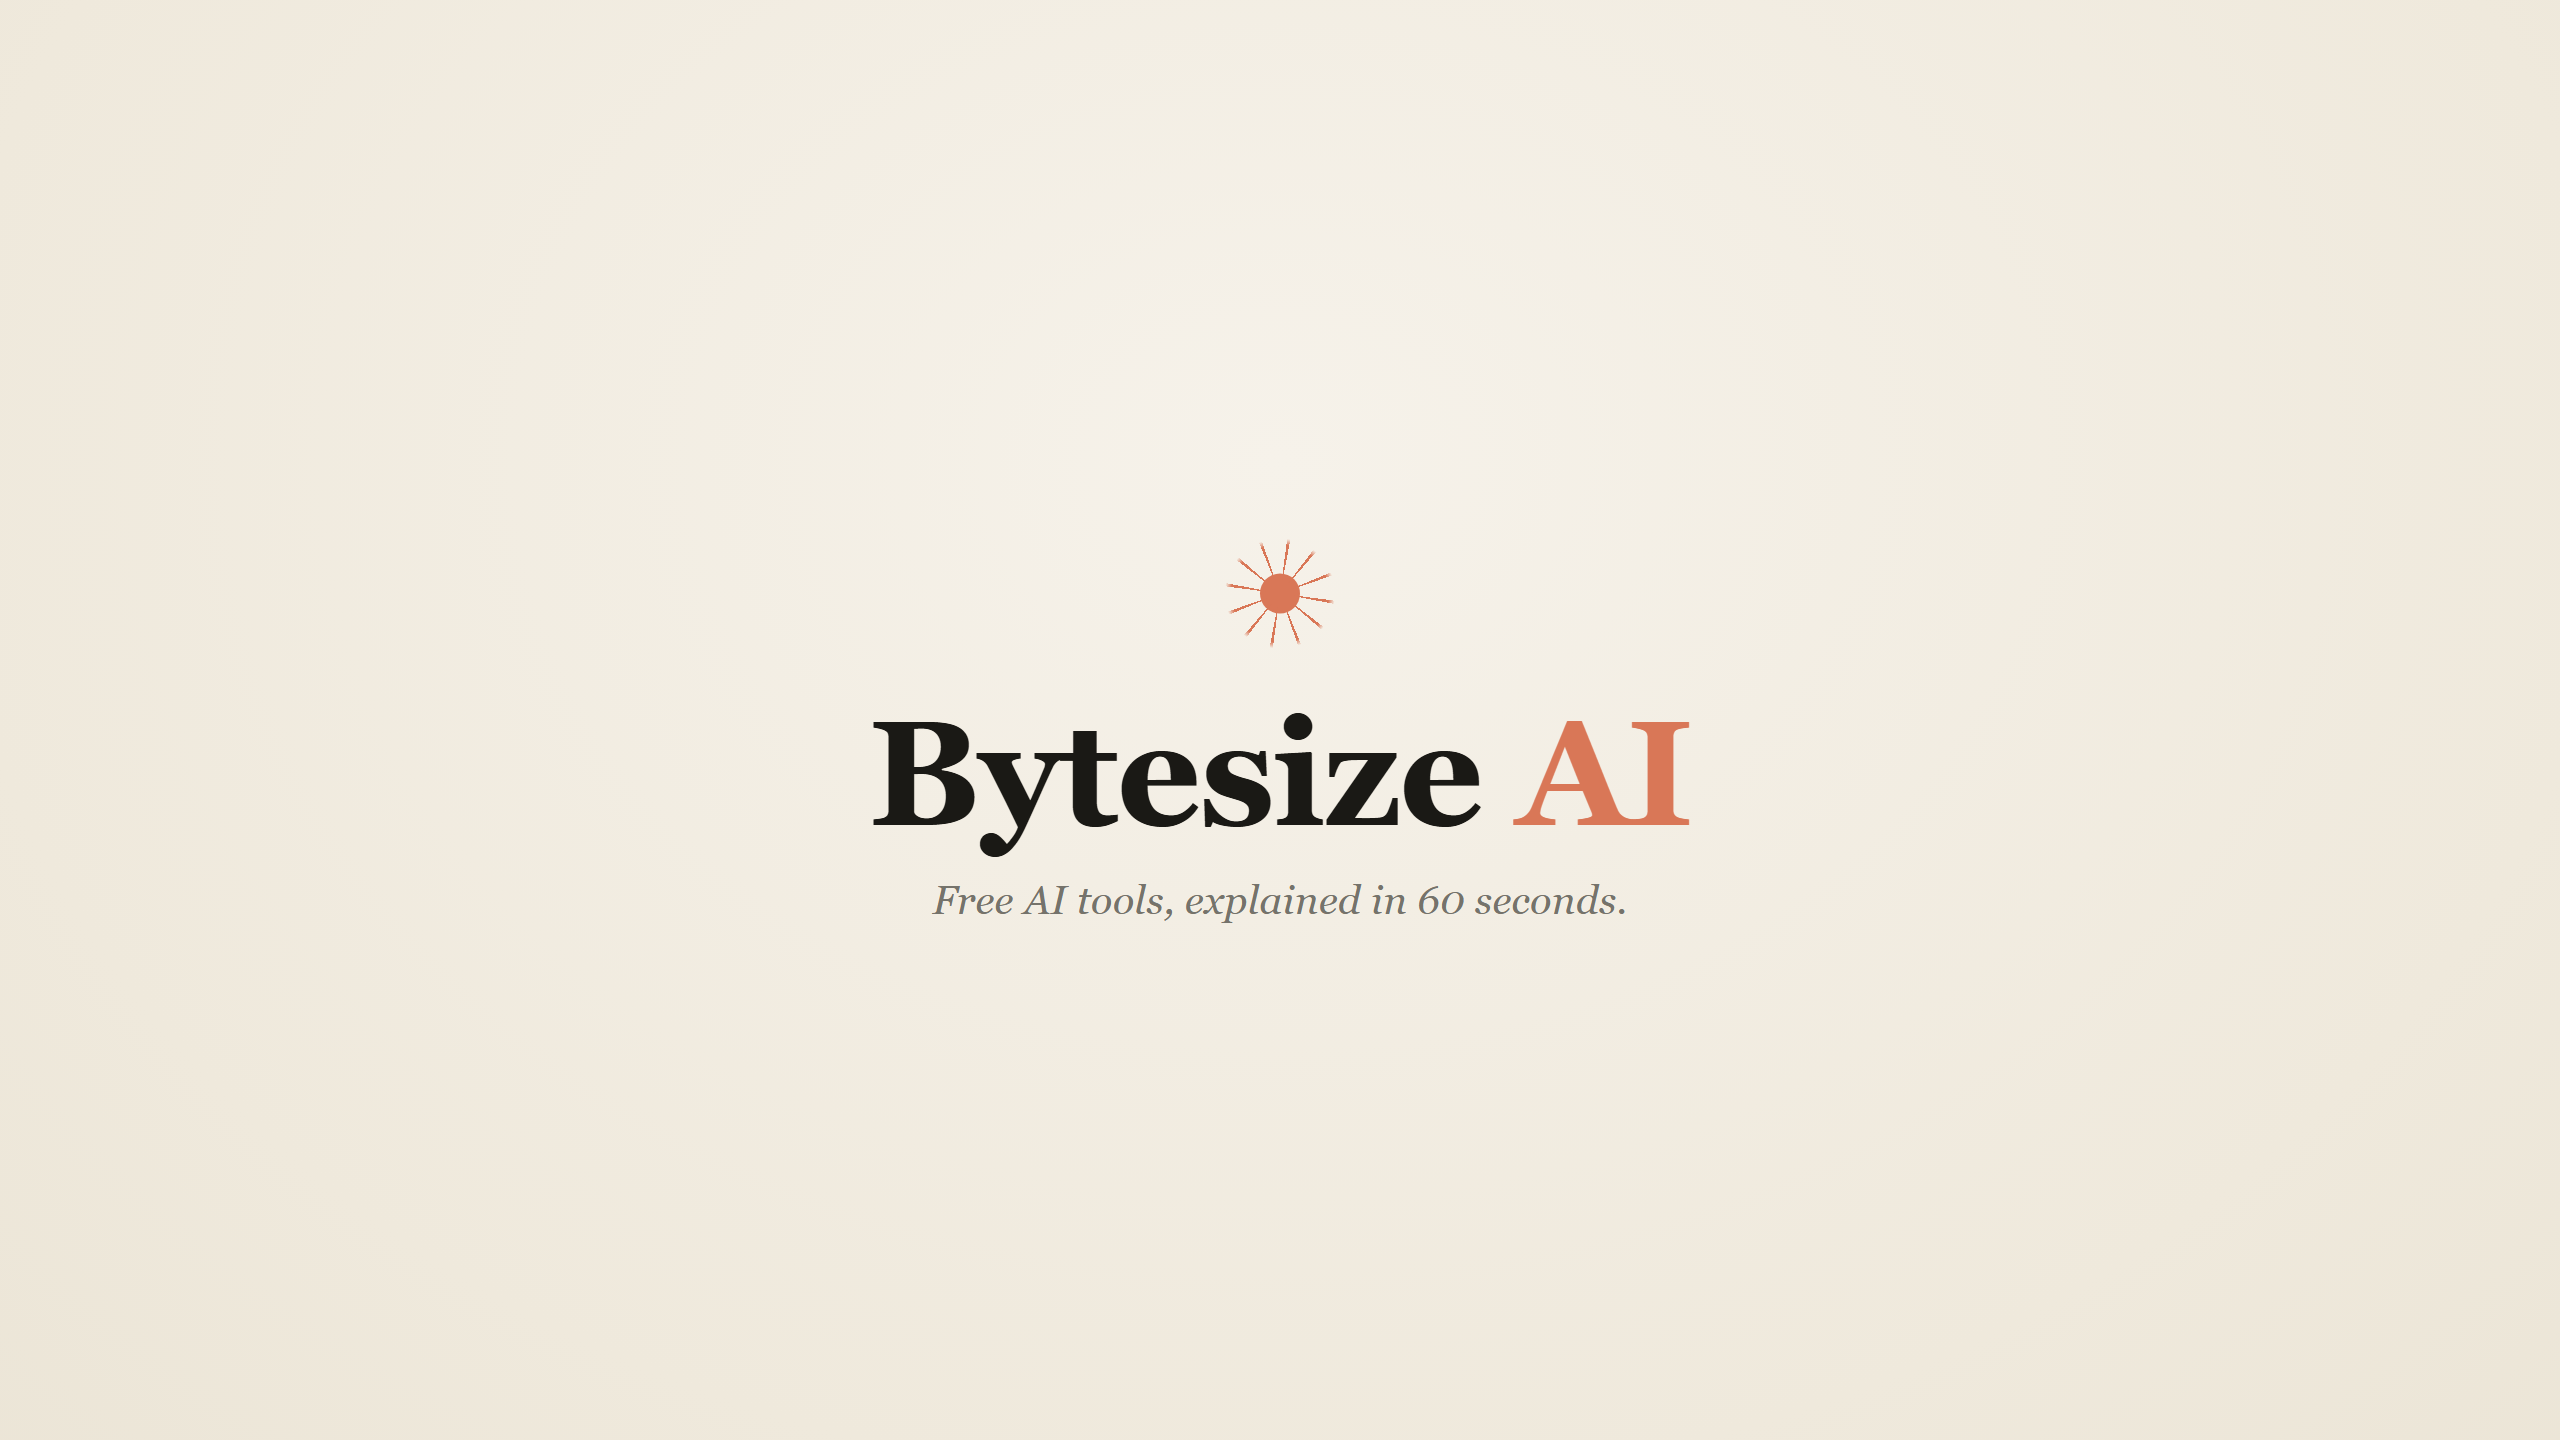
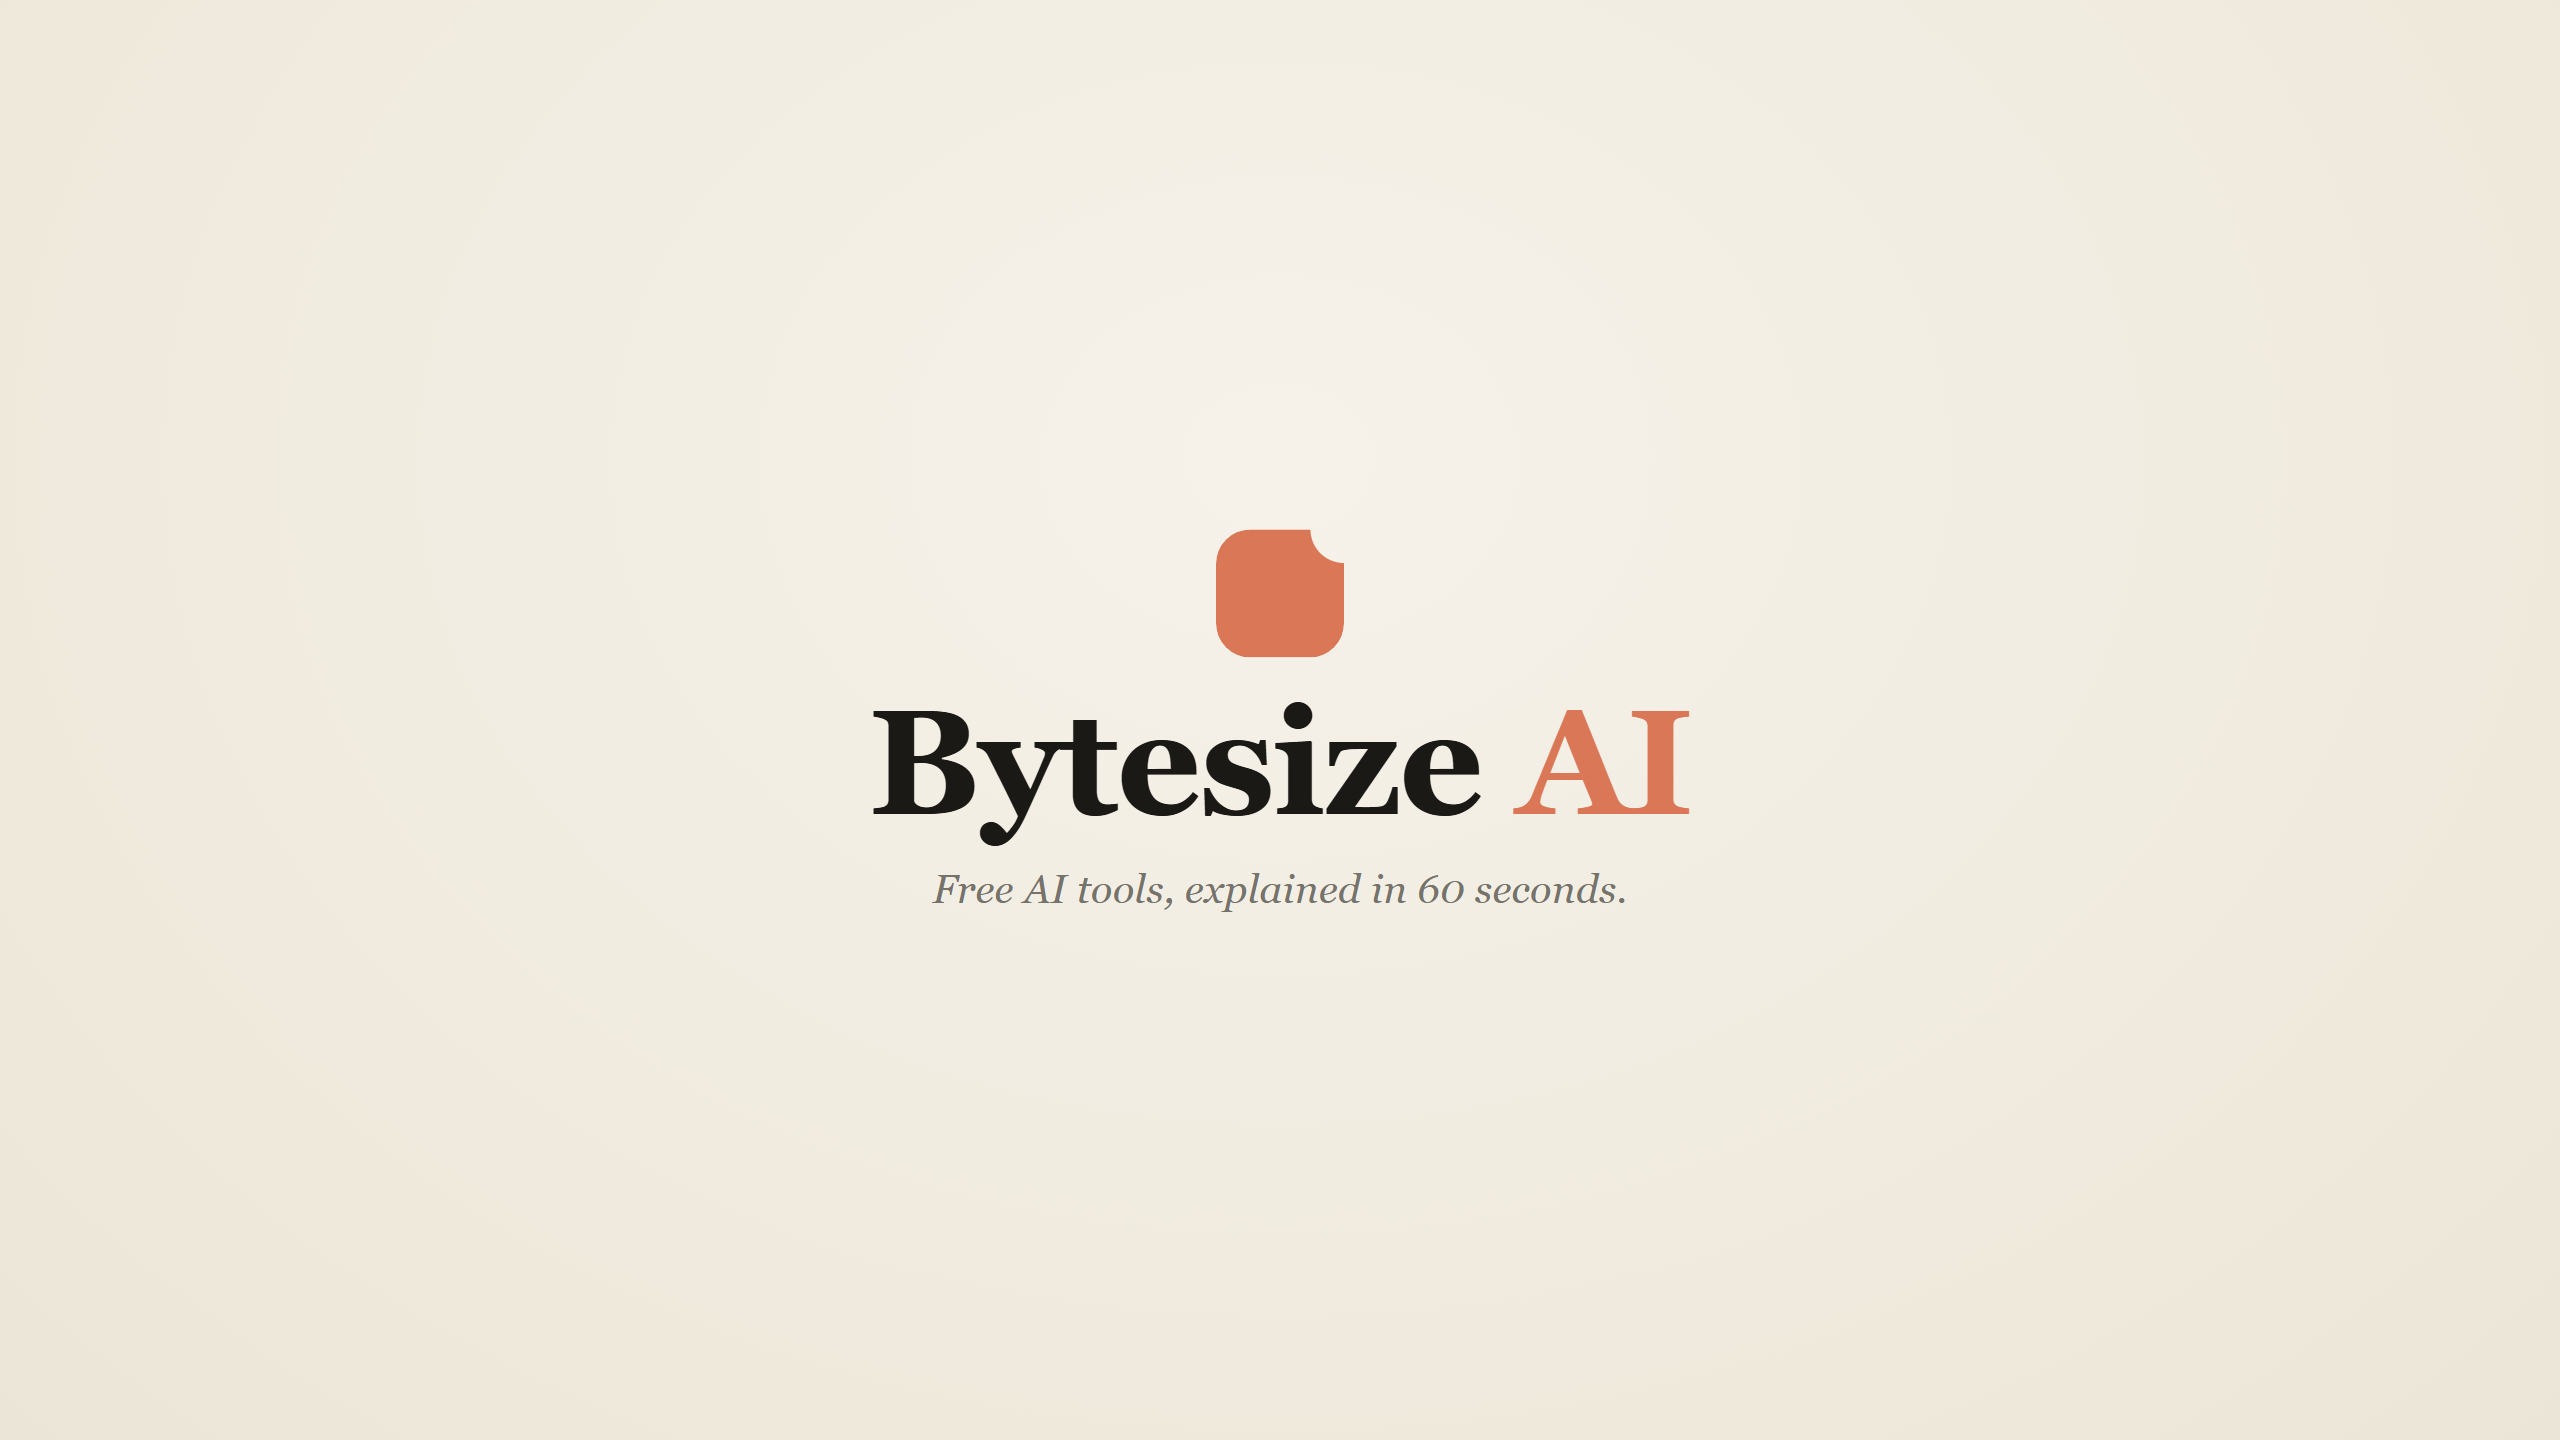
Brand: original byte/bite mark (drop Claude-like sunburst)

Changed region(s): [[0.3438, 0.4688, 0.6562, 0.6562], [0.4688, 0.3438, 0.5312, 0.4688], [0.625, 0.4688, 0.6562, 0.5]]

diff --git a/brand/logo.html b/brand/logo.html
@@ -2,18 +2,22 @@
 <html><head><meta charset="UTF-8"><style>
   *{margin:0;padding:0;box-sizing:border-box}
   html,body{width:1024px;height:1024px;overflow:hidden}
-  body{background:#D97757;display:grid;place-items:center}
-  .wrap{position:relative;width:760px;height:760px;display:grid;place-items:center}
-  .burst{position:absolute;inset:0;border-radius:50%;
-    background:repeating-conic-gradient(from 7.5deg,#F4F1EA 0deg 3.2deg,transparent 3.2deg 30deg);
-    -webkit-mask:radial-gradient(circle, transparent 0 9%, #000 13% 46%, transparent 51%);
-            mask:radial-gradient(circle, transparent 0 9%, #000 13% 46%, transparent 51%)}
-  .core{width:150px;height:150px;border-radius:50%;background:#F4F1EA;
-    box-shadow:0 6px 24px rgba(120,50,30,.25)}
+  body{background:#F2EEE4;display:grid;place-items:center}
+  .wrap{position:relative;width:560px;height:560px}
+  /* "byte" chip with a circular bite removed from the top-right corner */
+  .chip{position:absolute;inset:0;border-radius:150px;background:#D97757;
+    -webkit-mask:radial-gradient(circle 150px at 560px 0, transparent 148px, #000 149px);
+            mask:radial-gradient(circle 150px at 560px 0, transparent 148px, #000 149px)}
+  /* the bitten-off piece, floating near the bite */
+  .bit{position:absolute;width:120px;height:120px;border-radius:50%;background:#D97757;
+    right:-58px;top:-58px;opacity:.55}
+  .bit2{position:absolute;width:58px;height:58px;border-radius:50%;background:#D97757;
+    right:-150px;top:30px;opacity:.32}
 </style></head>
 <body>
   <div class="wrap">
-    <div class="burst"></div>
-    <div class="core"></div>
+    <div class="chip"></div>
+    <div class="bit"></div>
+    <div class="bit2"></div>
   </div>
 </body></html>

diff --git a/brand/banner.html b/brand/banner.html
@@ -7,19 +7,16 @@
   .safe{position:absolute;left:50%;top:50%;transform:translate(-50%,-50%);
     width:1546px;height:423px;display:flex;flex-direction:column;align-items:center;justify-content:center;
     gap:30px;text-align:center}
-  .burst{position:relative;width:150px;height:150px;display:grid;place-items:center}
-  .rays{position:absolute;inset:0;border-radius:50%;
-    background:repeating-conic-gradient(from 7.5deg,#D97757 0deg 3.4deg,transparent 3.4deg 30deg);
-    -webkit-mask:radial-gradient(circle, transparent 0 13%, #000 17% 46%, transparent 52%);
-            mask:radial-gradient(circle, transparent 0 13%, #000 17% 46%, transparent 52%)}
-  .core{width:40px;height:40px;border-radius:50%;background:#D97757}
+  .mark{width:128px;height:128px;border-radius:34px;background:#D97757;position:relative;
+    -webkit-mask:radial-gradient(circle 34px at 128px 0, transparent 33px, #000 34px);
+            mask:radial-gradient(circle 34px at 128px 0, transparent 33px, #000 34px)}
   h1{font-size:148px;font-weight:700;letter-spacing:-2px;color:#1A1915;line-height:1}
   h1 .c{color:#D97757}
   p{font-size:40px;color:#75736B;font-style:italic;letter-spacing:.3px}
 </style></head>
 <body>
   <div class="safe">
-    <div class="burst"><div class="rays"></div><div class="core"></div></div>
+    <div class="mark"></div>
     <h1>Bytesize <span class="c">AI</span></h1>
     <p>Free AI tools, explained in 60 seconds.</p>
   </div>
